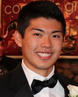
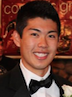
Changed Sahi, added erin, sam

diff --git a/index.html b/index.html
@@ -321,7 +321,7 @@
                         Philanthropy Chair
                       </div>
                       <div class="col-sm-3">
-                        <img src="img/sahi.jpg" alt="sahi-sem-chair" class="img-circle">
+                        <img src="img/sahi2.jpg" alt="sahi-sem-chair" class="img-circle">
                       </div>
                     </div>
                   </div>
@@ -502,7 +502,7 @@
                 data-target="#sahitya-mantravadi" >
 
                 <div class="core-img-setter">
-                  <img src="img/sahi.jpg" alt="Sahitya Mantravadi" />
+                  <img src="img/sahi2.jpg" alt="Sahitya Mantravadi" />
                 </div>
 
                 <div class="core-img-title brother-title-sm">
@@ -1263,20 +1263,17 @@
 
 
               <div class="col-md-2" data-toggle="modal"
-                data-target="#irene-li" >
+                data-target="#ryo-inkyo" >
 
                 <div class="pc-img-only">
-                  <img src="img/irene.jpg" alt="Irene Li" />
+                  <img src="img/ryo.png" alt="Ryo Inkyo" />
                 </div>
 
                 <div class="core-img-name">
-                  Irene Li
+                  Ryo Inkyo
                 </div>
 
               </div><!-- End Brother -->
-
-
-
               <div class="col-md-2" data-toggle="modal"
                 data-target="#emma-luengo" >
 
@@ -1309,15 +1306,30 @@
           <div class="col-md-7 pc-sixper">
             <div class="row">
 
+
               <div class="col-md-2" data-toggle="modal"
-                data-target="#ryo-inkyo" >
+                data-target="#irene-li" >
 
                 <div class="pc-img-only">
-                  <img src="img/ryo.png" alt="Ryo Inkyo" />
+                  <img src="img/irene.jpg" alt="Irene Li" />
                 </div>
 
                 <div class="core-img-name">
-                  Ryo Inkyo
+                  Irene Li
+                </div>
+
+              </div><!-- End Brother -->
+
+
+              <div class="col-md-2" data-toggle="modal"
+                data-target="#sam-miller" >
+
+                <div class="pc-img-only">
+                  <img src="img/smiller.jpg" alt="Sam Miller" />
+                </div>
+
+                <div class="core-img-name">
+                  Sam Miller
                 </div>
 
               </div><!-- End Brother -->
@@ -1380,22 +1392,6 @@
               </div><!-- End Brother -->
 
 
-
-              <div class="col-md-2" data-toggle="modal"
-                data-target="#pavan-yalla">
-
-                <div class="pc-img-only">
-                  <img src="img/pavan.jpg" alt="Pavan Yalla" />
-                </div>
-
-                <div class="core-img-name">
-                  Pavan Yalla
-                </div>
-
-              </div><!-- End Brother -->
-
-
-
             </div> <!-- End Inner Row -->
           </div> <!-- Core Image Over -->
 
@@ -1414,6 +1410,21 @@
             <div class="row">
 
               <div class="col-md-2" data-toggle="modal"
+                data-target="#pavan-yalla">
+
+                <div class="pc-img-only">
+                  <img src="img/pavan.jpg" alt="Pavan Yalla" />
+                </div>
+
+                <div class="core-img-name">
+                  Pavan Yalla
+                </div>
+
+              </div><!-- End Brother -->
+
+
+
+              <div class="col-md-2" data-toggle="modal"
                 data-target="#shannon-zhou" >
 
                 <div class="pc-img-only">
@@ -1425,6 +1436,21 @@
                 </div>
 
               </div><!-- End Brother -->
+
+              <div class="col-md-2" data-toggle="modal"
+                data-target="#erin-cantrell" >
+
+                <div class="pc-img-only">
+                  <img src="img/erin.jpg" alt="Erin Cantrell" />
+                </div>
+
+                <div class="core-img-name">
+                  Erin Cantrell
+                </div>
+
+              </div><!-- End Brother -->
+
+
 
             </div> <!-- End Inner Row -->
           </div> <!-- Core Image Over -->
@@ -2160,13 +2186,16 @@
       <div class="modal-body">
         <div class="row">
           <div class="col-md-4 brother-img-modal">
-            <img class="img-responsive" src="img/sahi.jpg" alt="cagley-modal"/>
+            <img class="img-responsive" src="img/sahi2.jpg" alt="cagley-modal"/>
           </div>
           <div class="col-md-8 modal-body-text">
             <b>Philanthropy Chair</b><br><br>
-            Sahitya Mantravadi is a sophomore studying computer science engineering. <br><br>
-            This summer, she interned at a biotech company in the Silicon Valley doing software development and testing. <br><br>
-            During the school year, she does research with the Cornell University High Energy Synchrotron Source.
+            Sahitya Mantravadi is a sophomore from Fremont, CA majoring in Computer Science and minoring in Applied Mathematics and Business. <br><br>
+            She is currently the Philanthropy Chair for Theta Tau. <br><br>
+            On campus, she does research in radiophysics and astrophysics with the Cornell Center for Space Research and Radiophysics. <br><br>
+
+            In the past, she has interned on the software development and testing team of Affymetrix, a biotech company in Santa Clara, CA and worked as a research assistant with the Cornell High Energy Synchrotron Source.<br><br>
+            Her interests include playing electric and acoustic guitar, running, and cooking.
           </div>
         </div>
 
@@ -3394,6 +3423,36 @@
   </div><!-- /.modal-dialog -->
 </div>
 
+<!-- Erin Cantrell -->
+<div class="modal fade" id="erin-cantrell">
+  <div class="modal-dialog">
+    <div class="modal-content">
+      <div class="modal-header">
+        <button type="button" class="close" data-dismiss="modal" aria-label="Close"><span aria-hidden="true">&times;</span></button>
+        <div class="modal-title">Erin Cantrell</div>
+      </div>
+
+      <div class="modal-body">
+        <div class="row">
+          <div class="col-md-4 brother-img-modal">
+            <img class="img-responsive" src="img/erin.jpg" alt="cagley-modal"/>
+          </div>
+          <div class="col-md-8 modal-body-text">
+            Erin Cantrell is class of 2017 studying Environmental Science and Sustainability with a concentration in biogeochemistry. <br><br>
+
+            Outside of Theta Tau she is a Cornell Outdoor Education instructor and the chapter historian of her social sorority.  She also conducts research in the Soil and Water Lab at Cornell concentrating on Urban Hydrology and Biogeochemistry.
+
+          </div>
+
+        </div>
+
+      </div>
+    </div><!-- /.modal-content -->
+  </div><!-- /.modal-dialog -->
+</div>
+
+
+
 
 
 <!-- Andrew Aquino -->
@@ -3806,6 +3865,37 @@
     </div><!-- /.modal-content -->
   </div><!-- /.modal-dialog -->
 </div>
+
+
+<!-- Sam Miller -->
+<div class="modal fade" id="sam-miller">
+  <div class="modal-dialog">
+    <div class="modal-content">
+      <div class="modal-header">
+        <button type="button" class="close" data-dismiss="modal" aria-label="Close"><span aria-hidden="true">&times;</span></button>
+        <div class="modal-title">Sam Miller</div>
+      </div>
+
+      <div class="modal-body">
+        <div class="row">
+          <div class="col-md-4 brother-img-modal">
+            <img class="img-responsive" src="img/smiller.jpg" alt="cagley-modal"/>
+          </div>
+          <div class="col-md-8 modal-body-text">
+
+            Sam is a Computer Science major in his junior year at Cornell. <br><br>
+
+            On campus, he is a member of the CUAIR project team, RCPRS research program, and the Kappa Sigma fraternity. <br><br>
+            Sam spent the past summer in San Francisco working for Originate as an iOS developer where he discovered his passion for creating applications.
+          </div>
+
+        </div>
+
+      </div>
+    </div><!-- /.modal-content -->
+  </div><!-- /.modal-dialog -->
+</div>
+
 
 
 
